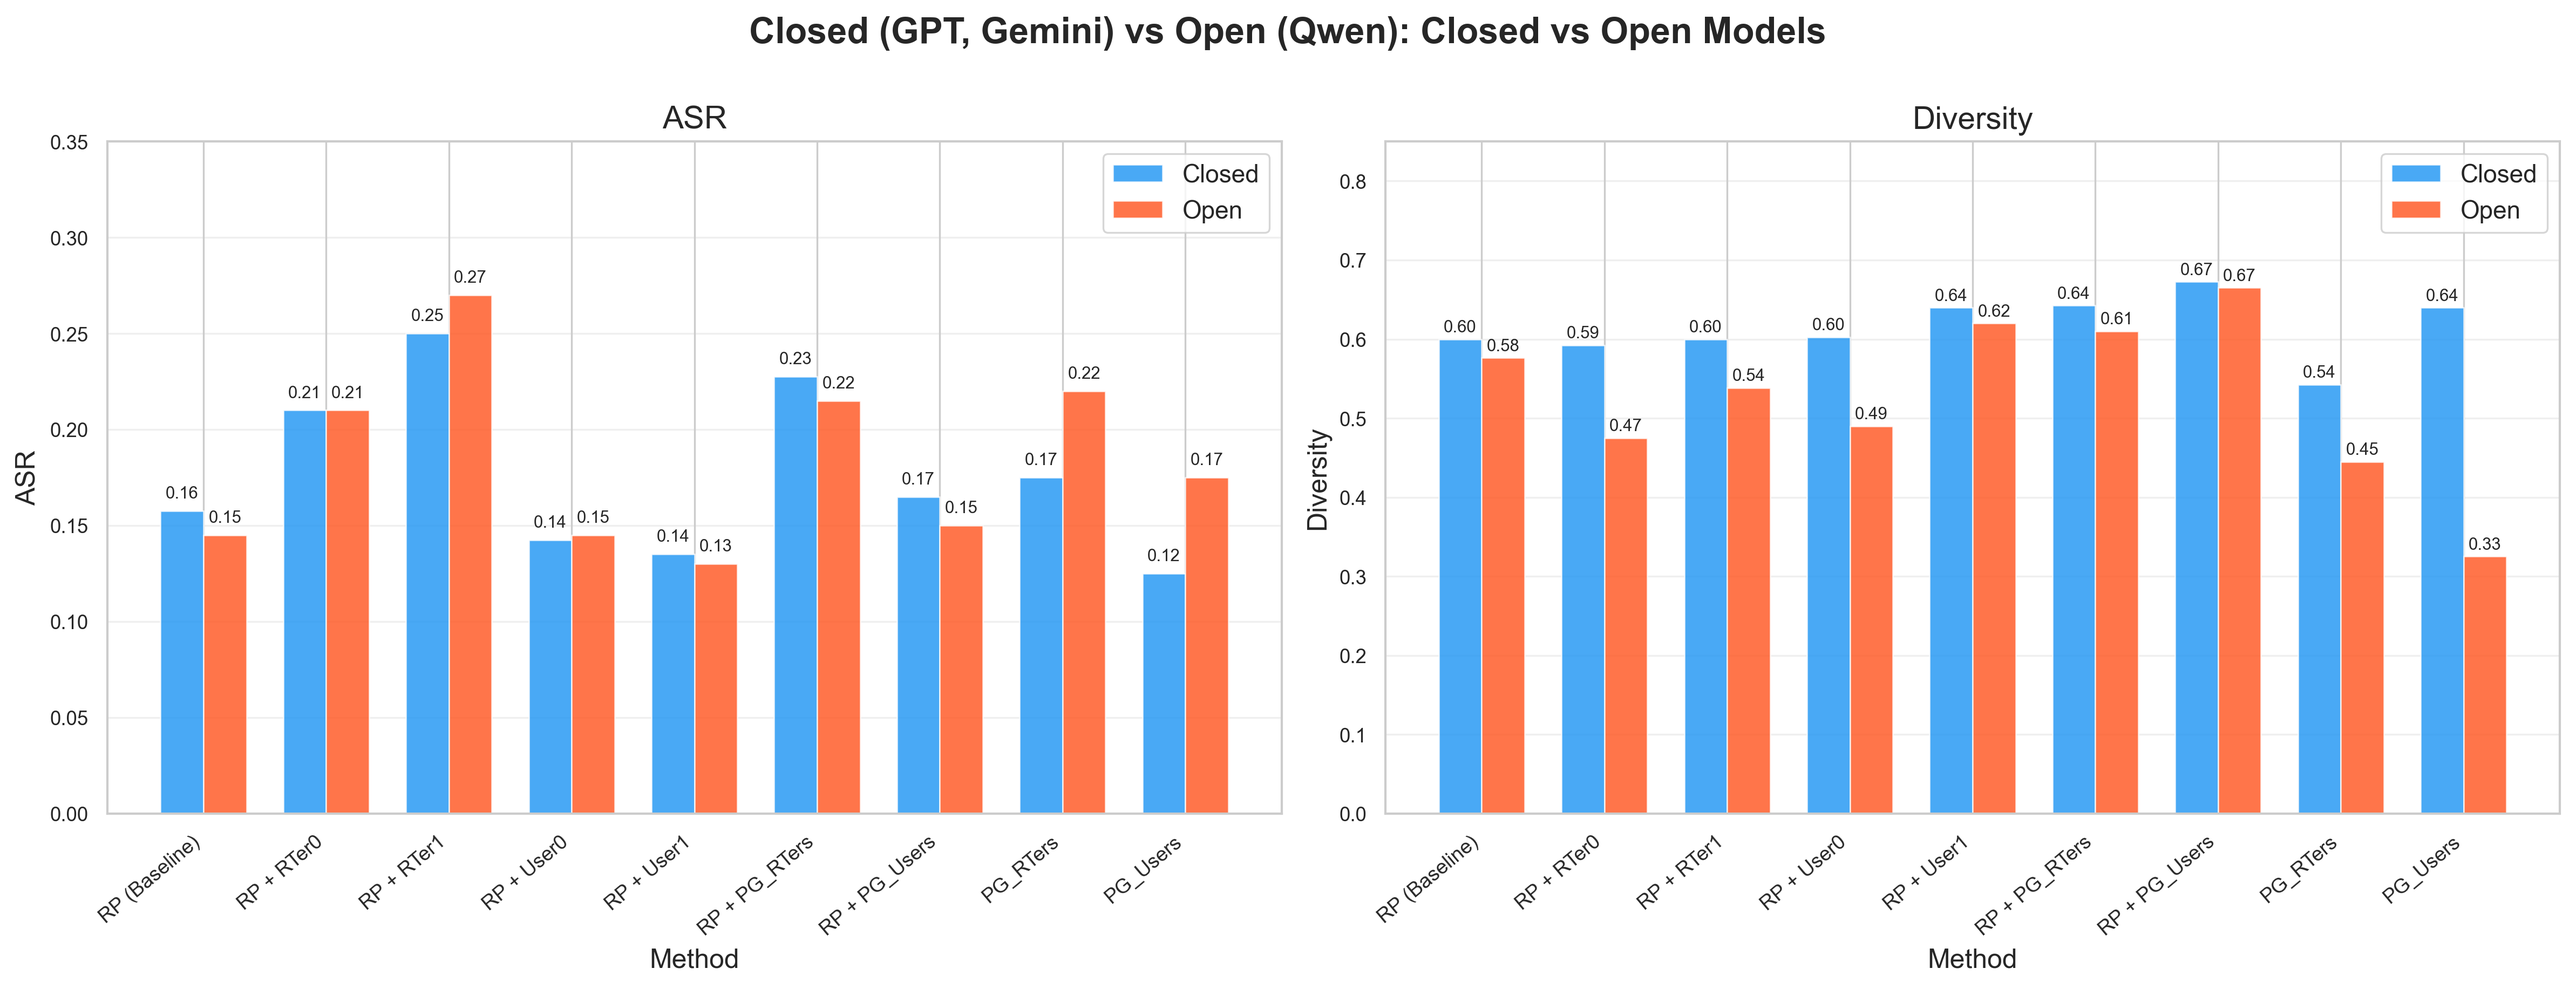
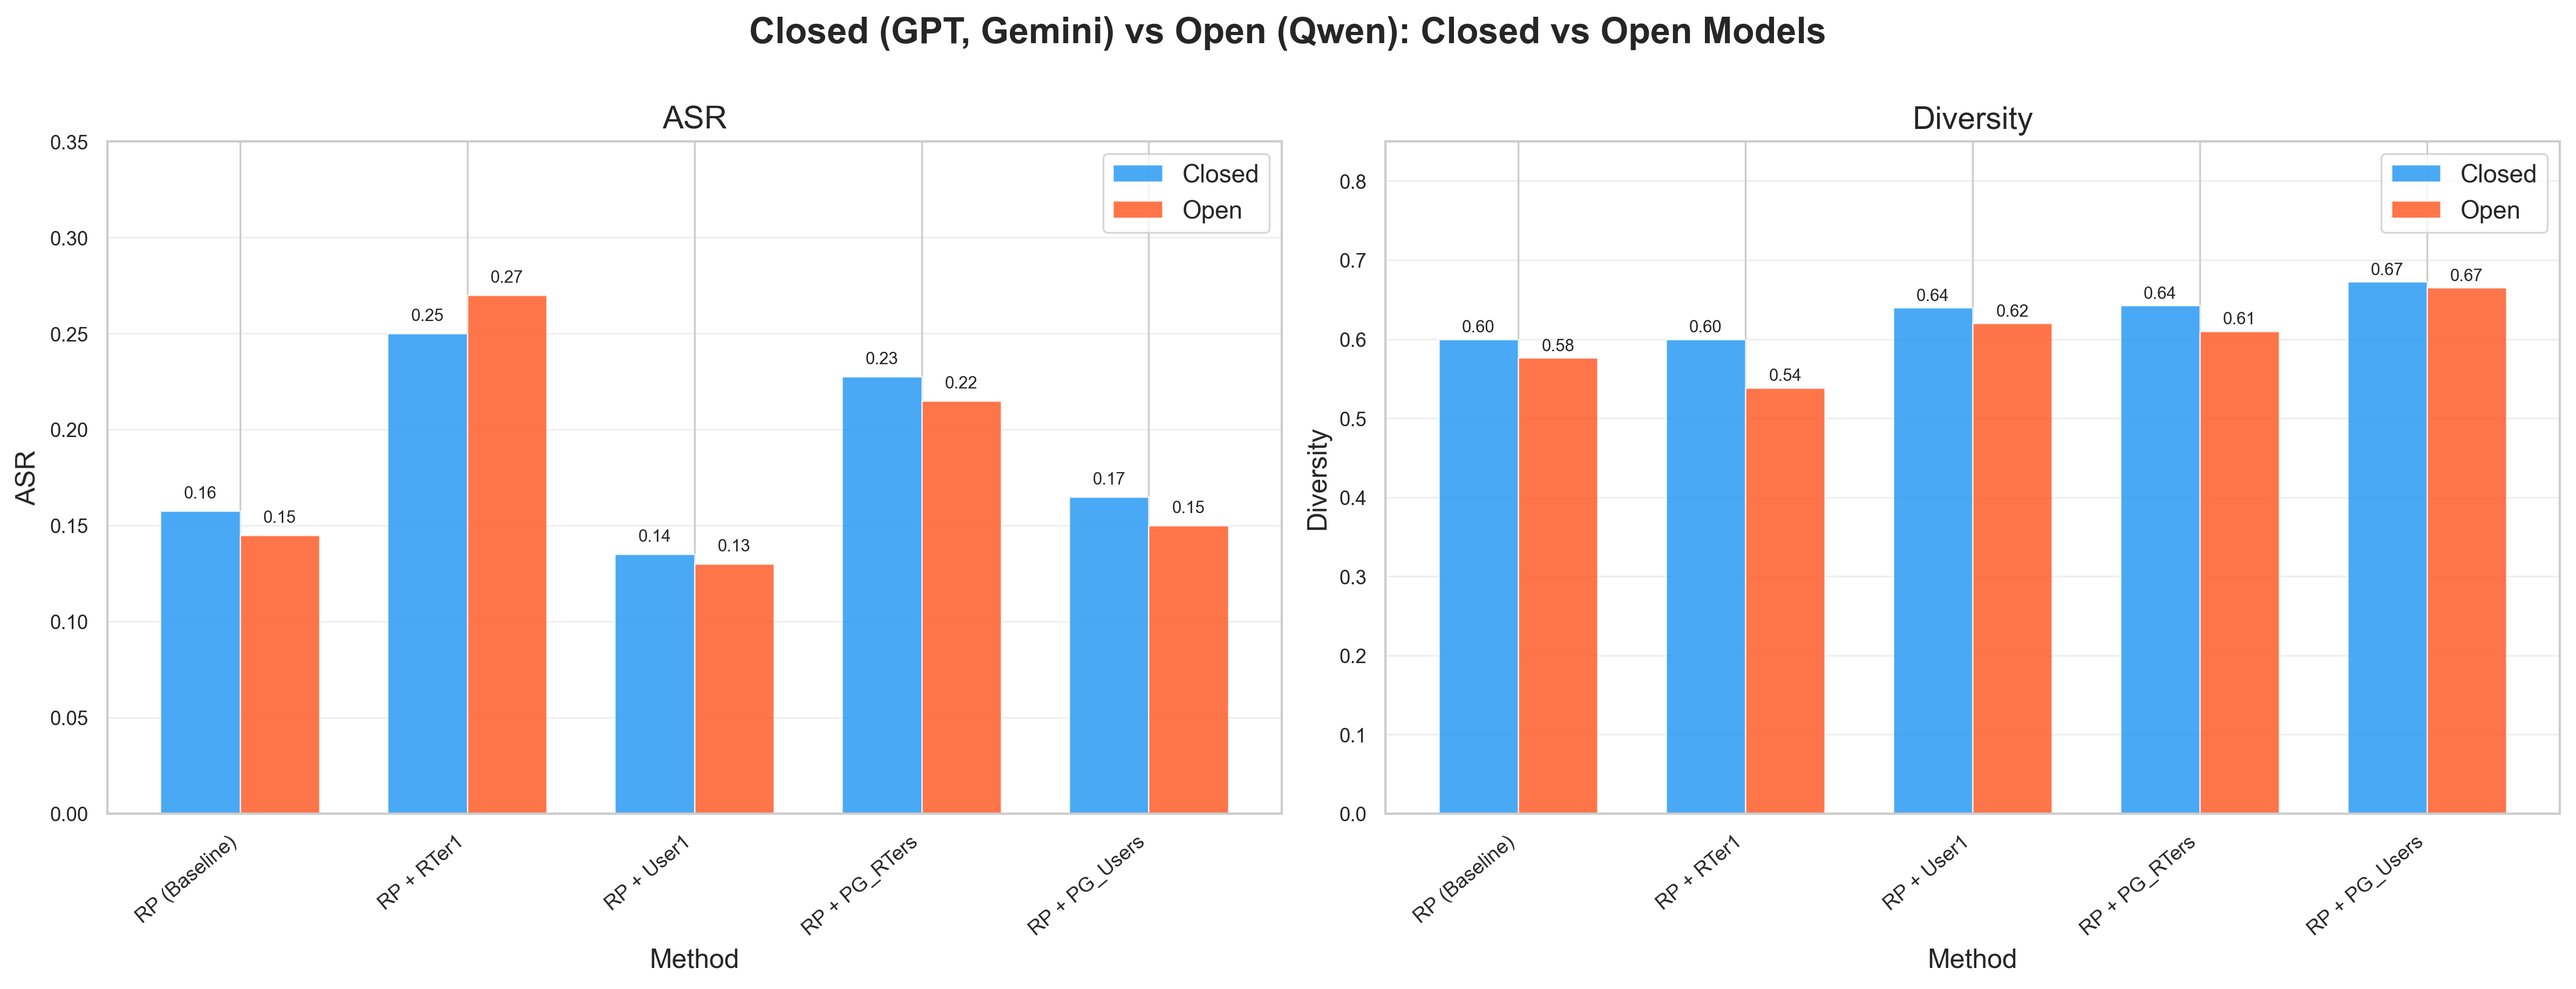
fix: compare only first 5 conditions

diff --git a/compare_model_groups.py b/compare_model_groups.py
@@ -94,10 +94,10 @@ df['ModelSize'] = df['Model'].apply(lambda m: 'Large' if m in LARGE_MODELS else 
 
 METHOD_ORDER = [
     'RP (Baseline)',
-    'RP + RTer0', 'RP + RTer1',
-    'RP + User0', 'RP + User1',
-    'RP + PG_RTers', 'RP + PG_Users',
-    'PG_RTers', 'PG_Users',
+    'RP + RTer1',
+    'RP + User1',
+    'RP + PG_RTers',
+    'RP + PG_Users',
 ]
 
 output_dir = Path('final results comparison')
